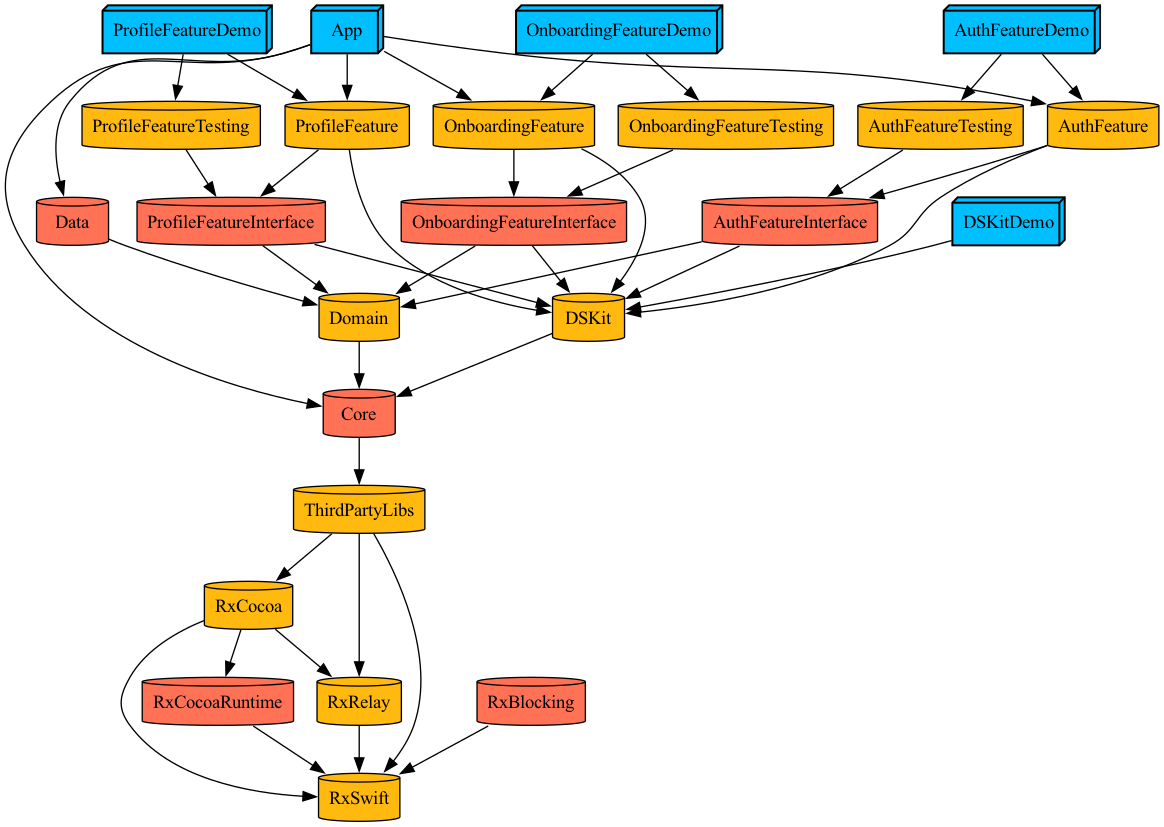
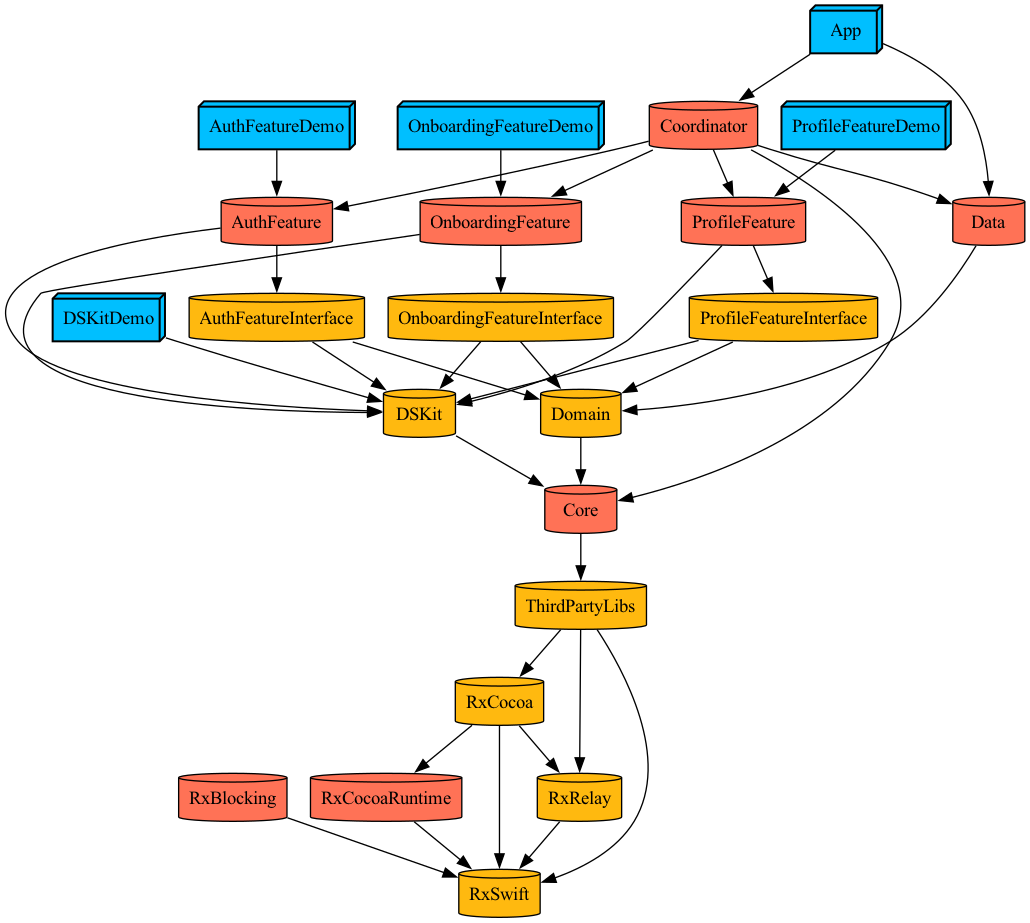
feat: Coordinator 모듈 구현

diff --git a/Projects/Features/OnboardingFeature/Project.swift b/Projects/Features/OnboardingFeature/Project.swift
@@ -8,7 +8,7 @@ let project = Project(
         .target(
             name: "OnboardingFeature",
             destinations: .iOS,
-            product: .framework,
+            product: .staticFramework,
             bundleId: "com.indextrown.Haruhancut.onboardingfeature",
             deploymentTargets: .iOS("17.0"),
             sources: ["Sources/**"],
@@ -23,7 +23,7 @@ let project = Project(
         .target(
             name: "OnboardingFeatureInterface",
             destinations: .iOS,
-            product: .staticFramework,
+            product: .framework,
             bundleId: "com.indextrown.Haruhancut.onboardingfeature.interface",
             deploymentTargets: .iOS("17.0"),
             sources: ["Interface/Sources/**"],
@@ -62,7 +62,7 @@ let project = Project(
             resources: [],
             dependencies: [
                 .target(name: "OnboardingFeature"),
-                .target(name: "OnboardingFeatureTesting")
+                // .target(name: "OnboardingFeatureTesting")
             ],
             settings: .settings(
                 configurations: [
@@ -79,33 +79,33 @@ let project = Project(
         ),
 
         // MARK: - Feature Tests
-        .target(
-            name: "OnboardingTests",
-            destinations: .iOS,
-            product: .unitTests,
-            bundleId: "com.indextrown.Haruhancut.onboardingfeature.tests",
-            deploymentTargets: .iOS("17.0"),
-            sources: ["Tests/Sources/**"],
-            resources: [],
-            dependencies: [
-                .target(name: "OnboardingFeature"),
-                .target(name: "OnboardingFeatureTesting")
-            ]
-        ),
+        // .target(
+        //     name: "OnboardingTests",
+        //     destinations: .iOS,
+        //     product: .unitTests,
+        //     bundleId: "com.indextrown.Haruhancut.onboardingfeature.tests",
+        //     deploymentTargets: .iOS("17.0"),
+        //     sources: ["Tests/Sources/**"],
+        //     resources: [],
+        //     dependencies: [
+        //         .target(name: "OnboardingFeature"),
+        //         .target(name: "OnboardingFeatureTesting")
+        //     ]
+        // ),
 
         // MARK: - Feature Testing
-        .target(
-            name: "OnboardingFeatureTesting",
-            destinations: .iOS,
-            product: .framework,
-            bundleId: "com.indextrown.Haruhancut.onboardingfeature.testing",
-            deploymentTargets: .iOS("17.0"),
-            sources: ["Testing/Sources/**"],
-            resources: [],
-            dependencies: [
-                .target(name: "OnboardingFeatureInterface")
-            ]
-        ),
+        // .target(
+        //     name: "OnboardingFeatureTesting",
+        //     destinations: .iOS,
+        //     product: .framework,
+        //     bundleId: "com.indextrown.Haruhancut.onboardingfeature.testing",
+        //     deploymentTargets: .iOS("17.0"),
+        //     sources: ["Testing/Sources/**"],
+        //     resources: [],
+        //     dependencies: [
+        //         .target(name: "OnboardingFeatureInterface")
+        //     ]
+        // ),
     ]
 )
 

diff --git a/Projects/Features/ProfileFeature/Project.swift b/Projects/Features/ProfileFeature/Project.swift
@@ -8,7 +8,7 @@ let project = Project(
         .target(
             name: "ProfileFeature",
             destinations: .iOS,
-            product: .framework,
+            product: .staticFramework,
             bundleId: "com.indextrown.Haruhancut.profilefeature",
             deploymentTargets: .iOS("17.0"),
             sources: ["Sources/**"],
@@ -23,7 +23,7 @@ let project = Project(
         .target(
             name: "ProfileFeatureInterface",
             destinations: .iOS,
-            product: .staticFramework,
+            product: .framework,
             bundleId: "com.indextrown.Haruhancut.profilefeature.interface",
             deploymentTargets: .iOS("17.0"),
             sources: ["Interface/Sources/**"],
@@ -62,7 +62,7 @@ let project = Project(
             resources: [],
             dependencies: [
                 .target(name: "ProfileFeature"),
-                .target(name: "ProfileFeatureTesting")
+                // .target(name: "ProfileFeatureTesting")
             ],
             settings: .settings(
                 configurations: [
@@ -79,33 +79,33 @@ let project = Project(
         ),
 
         // MARK: - Feature Tests
-        .target(
-            name: "ProfileTests",
-            destinations: .iOS,
-            product: .unitTests,
-            bundleId: "com.indextrown.Haruhancut.profilefeature.tests",
-            deploymentTargets: .iOS("17.0"),
-            sources: ["Tests/Sources/**"],
-            resources: [],
-            dependencies: [
-                .target(name: "ProfileFeature"),
-                .target(name: "ProfileFeatureTesting")
-            ]
-        ),
+        // .target(
+        //     name: "ProfileTests",
+        //     destinations: .iOS,
+        //     product: .unitTests,
+        //     bundleId: "com.indextrown.Haruhancut.profilefeature.tests",
+        //     deploymentTargets: .iOS("17.0"),
+        //     sources: ["Tests/Sources/**"],
+        //     resources: [],
+        //     dependencies: [
+        //         .target(name: "ProfileFeature"),
+        //         .target(name: "ProfileFeatureTesting")
+        //     ]
+        // ),
 
         // MARK: - Feature Testing
-        .target(
-            name: "ProfileFeatureTesting",
-            destinations: .iOS,
-            product: .framework,
-            bundleId: "com.indextrown.Haruhancut.profilefeature.testing",
-            deploymentTargets: .iOS("17.0"),
-            sources: ["Testing/Sources/**"],
-            resources: [],
-            dependencies: [
-                .target(name: "ProfileFeatureInterface")
-            ]
-        ),
+        // .target(
+        //     name: "ProfileFeatureTesting",
+        //     destinations: .iOS,
+        //     product: .framework,
+        //     bundleId: "com.indextrown.Haruhancut.profilefeature.testing",
+        //     deploymentTargets: .iOS("17.0"),
+        //     sources: ["Testing/Sources/**"],
+        //     resources: [],
+        //     dependencies: [
+        //         .target(name: "ProfileFeatureInterface")
+        //     ]
+        // ),
     ]
 )
 

diff --git a/Projects/Features/AuthFeature/Project.swift b/Projects/Features/AuthFeature/Project.swift
@@ -8,7 +8,7 @@ let project = Project(
         .target(
             name: "AuthFeature",
             destinations: .iOS,
-            product: .framework,
+            product: .staticFramework,
             bundleId: "com.indextrown.Haruhancut.authfeature",
             deploymentTargets: .iOS("17.0"),
             sources: ["Sources/**"],
@@ -23,7 +23,7 @@ let project = Project(
         .target(
             name: "AuthFeatureInterface",
             destinations: .iOS,
-            product: .staticFramework,
+            product: .framework,
             bundleId: "com.indextrown.Haruhancut.authfeature.interface",
             deploymentTargets: .iOS("17.0"),
             sources: ["Interface/Sources/**"],
@@ -62,7 +62,7 @@ let project = Project(
             resources: [],
             dependencies: [
                 .target(name: "AuthFeature"),
-                .target(name: "AuthFeatureTesting")
+                // .target(name: "AuthFeatureTesting")
             ],
             settings: .settings(
                 configurations: [
@@ -79,33 +79,33 @@ let project = Project(
         ),
 
         // MARK: - Feature Tests
-        .target(
-            name: "AuthTests",
-            destinations: .iOS,
-            product: .unitTests,
-            bundleId: "com.indextrown.Haruhancut.authfeature.tests",
-            deploymentTargets: .iOS("17.0"),
-            sources: ["Tests/Sources/**"],
-            resources: [],
-            dependencies: [
-                .target(name: "AuthFeature"),
-                .target(name: "AuthFeatureTesting")
-            ]
-        ),
+        // .target(
+        //     name: "AuthTests",
+        //     destinations: .iOS,
+        //     product: .unitTests,
+        //     bundleId: "com.indextrown.Haruhancut.authfeature.tests",
+        //     deploymentTargets: .iOS("17.0"),
+        //     sources: ["Tests/Sources/**"],
+        //     resources: [],
+        //     dependencies: [
+        //         .target(name: "AuthFeature"),
+        //         .target(name: "AuthFeatureTesting")
+        //     ]
+        // ),
 
         // MARK: - Feature Testing
-        .target(
-            name: "AuthFeatureTesting",
-            destinations: .iOS,
-            product: .framework,
-            bundleId: "com.indextrown.Haruhancut.authfeature.testing",
-            deploymentTargets: .iOS("17.0"),
-            sources: ["Testing/Sources/**"],
-            resources: [],
-            dependencies: [
-                .target(name: "AuthFeatureInterface")
-            ]
-        ),
+        // .target(
+        //     name: "AuthFeatureTesting",
+        //     destinations: .iOS,
+        //     product: .framework,
+        //     bundleId: "com.indextrown.Haruhancut.authfeature.testing",
+        //     deploymentTargets: .iOS("17.0"),
+        //     sources: ["Testing/Sources/**"],
+        //     resources: [],
+        //     dependencies: [
+        //         .target(name: "AuthFeatureInterface")
+        //     ]
+        // ),
     ]
 )
 

diff --git a/Projects/App/Project.swift b/Projects/App/Project.swift
@@ -33,13 +33,16 @@ let project = Project(
             sources: ["Sources/**"],
             resources: ["Resources/**"],
             dependencies: [
-                // Feature 의존성은 나중에 추가
-                .project(target: "AuthFeature", path: "../Features/AuthFeature"),
-                .project(target: "OnboardingFeature", path: "../Features/OnboardingFeature"),
-                .project(target: "ProfileFeature", path: "../Features/ProfileFeature"),
-                // .project(target: "DSKit", path: "../UI/DSKit")
-                .project(target: "Core", path: "../Core"),
-                .project(target: "Data", path: "../Data")
+                // // Feature 의존성은 나중에 추가
+                // .project(target: "AuthFeature", path: "../Features/AuthFeature"),
+                // .project(target: "OnboardingFeature", path: "../Features/OnboardingFeature"),
+                // .project(target: "ProfileFeature", path: "../Features/ProfileFeature"),
+                // // .project(target: "DSKit", path: "../UI/DSKit")
+                // .project(target: "Core", path: "../Core"),
+                // .project(target: "Data", path: "../Data"),
+
+                .project(target: "Coordinator", path: "../Coordinator"),
+                .project(target: "Data", path: "../Data"),
             ],
             settings: .settings(
                 configurations: [

diff --git a/Projects/Coordinator/Project.swift b/Projects/Coordinator/Project.swift
@@ -1,0 +1,28 @@
+import ProjectDescription
+
+let project = Project(
+    name: "Coordinator",
+    targets: [
+    
+        // MARK: - Coordinator / Domain Framework
+        .target(
+            name: "Coordinator",
+            destinations: .iOS,
+            product: .staticFramework, // 필요하면 .staticFramework 로 변경 가능
+            bundleId: "com.indextrown.Haruhancut.coordinator",
+            deploymentTargets: .iOS("17.0"),
+            sources: ["Sources/**"],
+            resources: [],
+            dependencies: [
+                // Feature 의존성은 나중에 추가
+                .project(target: "AuthFeature", path: "../Features/AuthFeature"),
+                .project(target: "OnboardingFeature", path: "../Features/OnboardingFeature"),
+                .project(target: "ProfileFeature", path: "../Features/ProfileFeature"),
+                // .project(target: "DSKit", path: "../UI/DSKit")
+                .project(target: "Core", path: "../Core"),
+                .project(target: "Data", path: "../Data"),
+            ]
+        ),
+    ]
+)
+

diff --git a/Projects/Shared/ThirdPartyLibs/Sources/ThirdPartyLibs.swift b/Projects/Shared/ThirdPartyLibs/Sources/ThirdPartyLibs.swift
@@ -5,6 +5,7 @@
 //  Created by 김동현 on 
 //
 
+// 이 모듈(ThirdPartyLibs)을 import하는 곳은 아래의 라이브러리들을 자동 import
 @_exported import RxSwift
 @_exported import RxCocoa
 @_exported import RxRelay

diff --git a/Workspace.swift b/Workspace.swift
@@ -4,6 +4,7 @@ let workspace = Workspace(
     name: "Haruhancut",
     projects: [
         "Projects/App",
+        "Projects/Coordinator",
         "Projects/Features/*",
         "Projects/Domain" ,
         "Projects/Core" ,

diff --git a/Projects/Coordinator/Sources/Empty.swift b/Projects/Coordinator/Sources/Empty.swift
@@ -1,0 +1,6 @@
+//
+//  Empty.swift
+//  Coordinator
+//
+//  Created by 김동현 on 
+//
